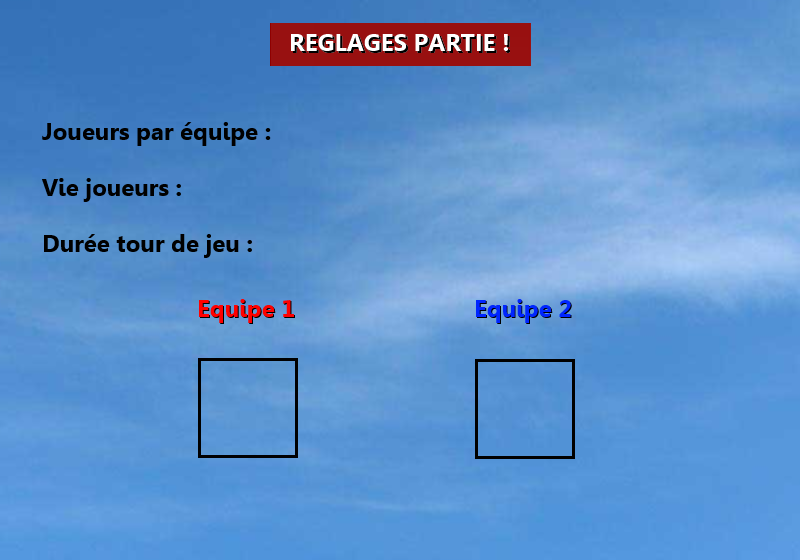
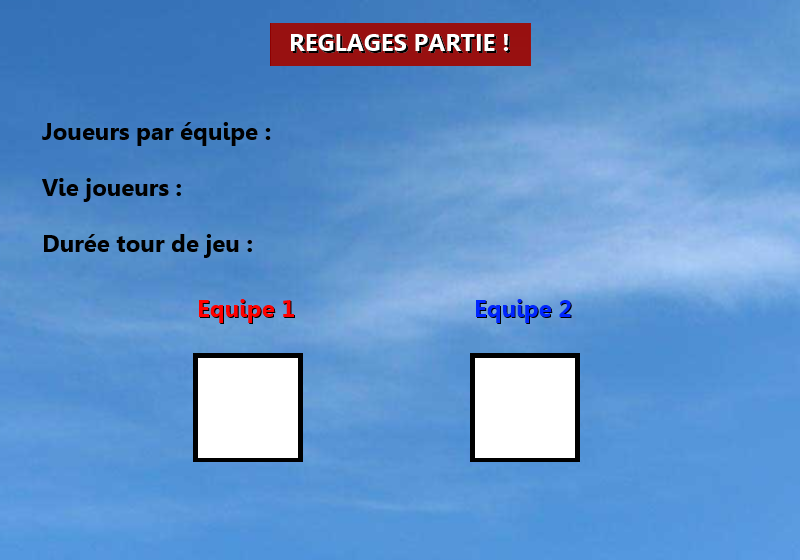
ajout choix perso
création de 7 persos dans chaque version (rouge et bleu) et ajout des
boutons de choix de perso

Changed region(s): [[0.5625, 0.6071, 0.75, 0.85], [0.2188, 0.6071, 0.4062, 0.85]]

diff --git a/menu.py b/menu.py
@@ -227,8 +227,18 @@ def menureglage():
     slidervie = Slider(296, 184, 50, 200, 100)
     sliderduree = Slider(296, 239, 10, 80, 60)
 
+    bouton1 = 1
+    bouton2 = 1
+
+    skin1 = "image/personnages/skinred1.png"
+    skin2 = "image/personnages/skinblue1.png"
+
+    affiche1 = pygame.image.load("image/boutonsmenu/btred1.png").convert_alpha()
+    affiche2 = pygame.image.load("image/boutonsmenu/btblue1.png").convert_alpha()
+
     # Boucle infinie
     while 1:
+
         # Blitter le tout dans la fenetre
         fenetre.blit(fond, (0, 0))
 
@@ -249,12 +259,17 @@ def menureglage():
     # Et voici le texte :
         fenetre.blit(text, (622,492))
 
+        fenetre.blit(affiche1, (198, 358))
+        fenetre.blit(affiche2, (475, 358))
+
+
+
 #---------------------------
 
         for event in pygame.event.get():
 
             if event.type == QUIT:
-                return 0
+                return 0, 0, 0, 0, 0, 0
 
             if event.type == MOUSEMOTION:
 
@@ -269,13 +284,27 @@ def menureglage():
                     couleur_suivant = (167,103,38)
 
             if event.type == MOUSEBUTTONDOWN and event.button == 1 :
+                if (event.pos[0] >= 198)  and (event.pos[0]<= 298) and (event.pos[1] >= 358)  and (event.pos[1] <= 458):
+                    bouton1 += 1
+                    if bouton1 > 7 :
+                        bouton1 = 1
+                    affiche1 = pygame.image.load("image/boutonsmenu/btred"+str(bouton1)+".png").convert_alpha()
+                    skin1 = "image/personnages/skinred"+str(bouton1)+".png"
+
+
+                if (event.pos[0] >= 475)  and (event.pos[0]<= 575) and (event.pos[1] >= 358)  and (event.pos[1] <= 458):
+                    bouton2 += 1
+                    if bouton2 > 7 :
+                        bouton2 = 1
+                    affiche2 = pygame.image.load("image/boutonsmenu/btblue"+str(bouton2)+".png").convert_alpha()
+                    skin2 = "image/personnages/skinblue"+str(bouton2)+".png"
 #----------------
                 #bouton retour
-                if (event.pos[0] >= 20)  and (event.pos[0]<= 200) and (event.pos[1] >= 482)  and (event.pos[1] <= 537):
-                    return 2
+                elif (event.pos[0] >= 20)  and (event.pos[0]<= 200) and (event.pos[1] >= 482)  and (event.pos[1] <= 537):
+                    return 2, 0, 0, 0, 0, 0
                 #bouton suivant
                 elif (event.pos[0] >= 598)  and (event.pos[0]<= 778) and (event.pos[1] >= 482)  and (event.pos[1] <= 537):
-                    return 4, sliderequipe.valeur, slidervie.valeur, sliderduree.valeur #jouer
+                    return 4, skin1, skin2, sliderequipe.valeur, slidervie.valeur, sliderduree.valeur #jouer
 
                 sliderequipe.clic(event)
                 slidervie.clic(event)

diff --git a/players.py b/players.py
@@ -11,12 +11,13 @@ from pygame.locals import *
 
 class Player(pygame.sprite.Sprite):
 
-    def __init__(self, decor, fichier, x, y):
+    def __init__(self, decor, fichier, x, y, skin):
         pygame.sprite.Sprite.__init__(self)
         self.decor = decor
         self.fichier = fichier
         self.x = x
         self.y = y
+        self.skin = skin
         self.image = pygame.image.load(self.fichier).convert_alpha()
         self.image_retourne = pygame.transform.flip(self.image, 1, 0)
         self.rect = self.image.get_rect()
@@ -40,9 +41,9 @@ class Player(pygame.sprite.Sprite):
 #afficher vie perso - TEST
         vie = str(vie)
 
-        if self.fichier == "image/personnages/esc-red.png":
+        if self.skin == "red":
             couleur = (255,0,0)
-        if self.fichier == "image/personnages/esc-blue.png":
+        if self.skin == "blue":
             couleur = (0,0,255)
         vie = self.font.render(vie, 1, couleur)
         fenetre.blit(vie, (self.rect.x,self.rect.y-13))

diff --git a/mapgest.py b/mapgest.py
@@ -15,7 +15,7 @@ from random import randint
 
 from PIL import Image, ImageDraw
 
-def mapinit(nombre_perso, viemax, fondchoix, mapchoix):
+def mapinit(skin1, skin2, nombre_perso, viemax, fondchoix, mapchoix):
 
     #copie image map
     mapcopie = Image.open(mapchoix)
@@ -39,8 +39,8 @@ def mapinit(nombre_perso, viemax, fondchoix, mapchoix):
     bleu = [0]*nombre_perso
     #creer les objets personnages
     for rang in range(nombre_perso):
-        rouge[rang] = players.Player(decor, escargot_rouge, randint(100, 700), 50)
-        bleu[rang] = players.Player(decor, escargot_bleu, randint(100, 700), 50)
+        rouge[rang] = players.Player(decor, skin1, randint(100, 700), 50, "red")
+        bleu[rang] = players.Player(decor, skin2, randint(100, 700), 50, "blue")
 
     return fond, decor, rouge, bleu, vies1, vies2
 

diff --git a/main.py b/main.py
@@ -28,7 +28,7 @@ while menu>0 and menu<4:
     if menu==2:
         menu, fondchoix, mapchoix = menumap()
     if menu == 3:
-        menu, nombre_perso, viemax, duree_tour = menureglage()
+        menu, skin1, skin2, nombre_perso, viemax, duree_tour = menureglage()
 #-------------------
 
 
@@ -42,7 +42,7 @@ if menu == 4:
     #Ouverture de la fenetre Pygame
     pygame.display.set_caption(titre_fenetre)
     #initialisation de la map
-    fond, decor, rouge, bleu, vies1, vies2 = mapinit(nombre_perso, viemax, fondchoix, mapchoix)
+    fond, decor, rouge, bleu, vies1, vies2 = mapinit(skin1, skin2, nombre_perso, viemax, fondchoix, mapchoix)
     tempsjeu = duree_tour
     #Rafraichissement/mise a jour de l'ecran
     pygame.display.flip()

diff --git a/constantes.py b/constantes.py
@@ -19,10 +19,6 @@ fenetre = pygame.display.set_mode((largeur_ecran, hauteur_ecran)) #fenetre de 64
 icon = "image/interface/icon.png"
 pygame.display.set_icon(pygame.image.load(icon))
 
-#Images
-escargot_rouge = "image/personnages/esc-red.png"
-escargot_bleu = "image/personnages/esc-blue.png"
-
 #bazooka ="image/bazooka" #image arme
 grenade = "image/personnages/prj_grenade.png"  #image projectile aussi utilisee pour image arme
 rocket = "image/personnages/prj_rocket.png" #image projectile
